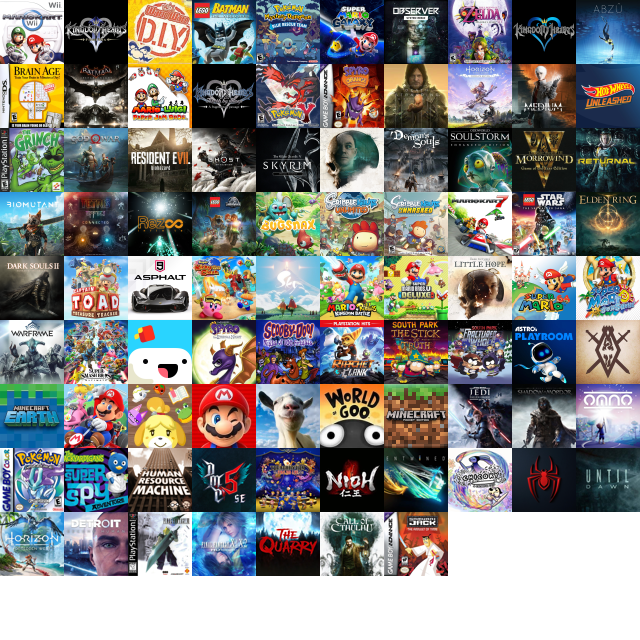
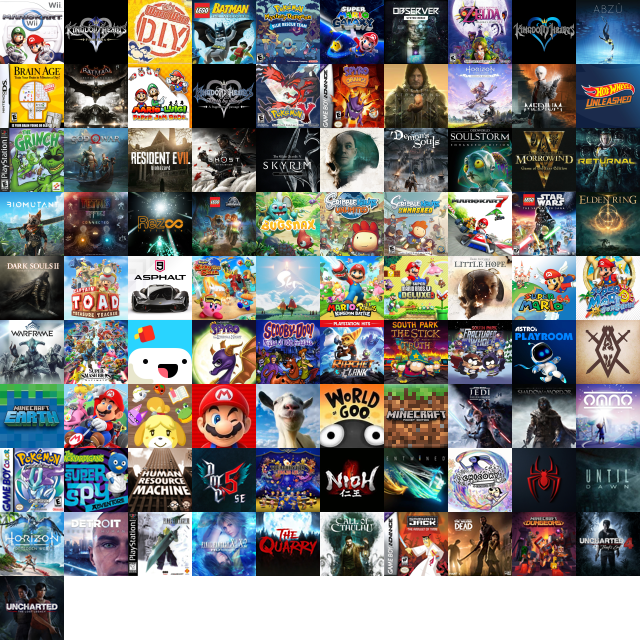
Update game records

Changed region(s): [[0.6875, 0.7812, 1.0, 0.9062], [0.0, 0.875, 0.125, 1.0]]

diff --git a/resources/css/game-records-icons.css b/resources/css/game-records-icons.css
@@ -1,1 +1,1 @@
-img#i000203{background:url(/resources/png/icons.png) -192px -128px}img#i000201{background:url(/resources/png/icons.png) -64px -128px}img#i000307{background:url(/resources/png/icons.png) -448px -192px}img#i010009{background:url(/resources/png/icons2.png) -576px 0px}img#i010602{background:url(/resources/png/icons2.png) -128px -384px}img#i010402{background:url(/resources/png/icons2.png) -128px -256px}img#i010508{background:url(/resources/png/icons2.png) -512px -320px}img#i000601{background:url(/resources/png/icons.png) -64px -384px}img#i010101{background:url(/resources/png/icons2.png) -64px -64px}img#i010300{background:url(/resources/png/icons2.png) 0px -192px}img#i000000{background:url(/resources/png/icons.png) 0px 0px}img#i010100{background:url(/resources/png/icons2.png) 0px -64px}img#i000400{background:url(/resources/png/icons.png) 0px -256px}img#i010304{background:url(/resources/png/icons2.png) -256px -192px}img#i010805{background:url(/resources/png/icons2.png) -320px -512px}img#i010401{background:url(/resources/png/icons2.png) -64px -256px}img#i000605{background:url(/resources/png/icons.png) -320px -384px}img#i000309{background:url(/resources/png/icons.png) -576px -192px}img#i010707{background:url(/resources/png/icons2.png) -448px -448px}img#i000607{background:url(/resources/png/icons.png) -448px -384px}img#i000800{background:url(/resources/png/icons.png) 0px -512px}img#i000509{background:url(/resources/png/icons.png) -576px -320px}img#i000006{background:url(/resources/png/icons.png) -384px 0px}img#i010400{background:url(/resources/png/icons2.png) 0px -256px}img#i010106{background:url(/resources/png/icons2.png) -384px -64px}img#i010206{background:url(/resources/png/icons2.png) -384px -128px}img#i010801{background:url(/resources/png/icons2.png) -64px -512px}img#i010703{background:url(/resources/png/icons2.png) -192px -448px}img#i000102{background:url(/resources/png/icons.png) -128px -64px}img#i000305{background:url(/resources/png/icons.png) -320px -192px}img#i000507{background:url(/resources/png/icons.png) -448px -320px}img#i010309{background:url(/resources/png/icons2.png) -576px -192px}img#i010706{background:url(/resources/png/icons2.png) -384px -448px}img#i000909{background:url(/resources/png/icons.png) -576px -576px}img#i000903{background:url(/resources/png/icons.png) -192px -576px}img#i000008{background:url(/resources/png/icons.png) -512px 0px}img#i010502{background:url(/resources/png/icons2.png) -128px -320px}img#i010802{background:url(/resources/png/icons2.png) -128px -512px}img#i000205{background:url(/resources/png/icons.png) -320px -128px}img#i000708{background:url(/resources/png/icons.png) -512px -448px}img#i010203{background:url(/resources/png/icons2.png) -192px -128px}img#i010604{background:url(/resources/png/icons2.png) -256px -384px}img#i010201{background:url(/resources/png/icons2.png) -64px -128px}img#i000402{background:url(/resources/png/icons.png) -128px -256px}img#i000100{background:url(/resources/png/icons.png) 0px -64px}img#i000709{background:url(/resources/png/icons.png) -576px -448px}img#i010800{background:url(/resources/png/icons2.png) 0px -512px}img#i010107{background:url(/resources/png/icons2.png) -448px -64px}img#i010109{background:url(/resources/png/icons2.png) -576px -64px}img#i000405{background:url(/resources/png/icons.png) -320px -256px}img#i010702{background:url(/resources/png/icons2.png) -128px -448px}img#i000702{background:url(/resources/png/icons.png) -128px -448px}img#i010008{background:url(/resources/png/icons2.png) -512px 0px}img#i010103{background:url(/resources/png/icons2.png) -192px -64px}img#i000300{background:url(/resources/png/icons.png) 0px -192px}img#i000306{background:url(/resources/png/icons.png) -384px -192px}img#i000902{background:url(/resources/png/icons.png) -128px -576px}img#i000108{background:url(/resources/png/icons.png) -512px -64px}img#i000807{background:url(/resources/png/icons.png) -448px -512px}img#i000007{background:url(/resources/png/icons.png) -448px 0px}img#i010001{background:url(/resources/png/icons2.png) -64px 0px}img#i000506{background:url(/resources/png/icons.png) -384px -320px}img#i000609{background:url(/resources/png/icons.png) -576px -384px}img#i000404{background:url(/resources/png/icons.png) -256px -256px}img#i000107{background:url(/resources/png/icons.png) -448px -64px}img#i010003{background:url(/resources/png/icons2.png) -192px 0px}img#i000900{background:url(/resources/png/icons.png) 0px -576px}img#i000901{background:url(/resources/png/icons.png) -64px -576px}img#i000207{background:url(/resources/png/icons.png) -448px -128px}img#i010303{background:url(/resources/png/icons2.png) -192px -192px}img#i000004{background:url(/resources/png/icons.png) -256px 0px}img#i000500{background:url(/resources/png/icons.png) 0px -320px}img#i000706{background:url(/resources/png/icons.png) -384px -448px}img#i010308{background:url(/resources/png/icons2.png) -512px -192px}img#i000804{background:url(/resources/png/icons.png) -256px -512px}img#i000905{background:url(/resources/png/icons.png) -320px -576px}img#i000805{background:url(/resources/png/icons.png) -320px -512px}img#i000508{background:url(/resources/png/icons.png) -512px -320px}img#i010102{background:url(/resources/png/icons2.png) -128px -64px}img#i010405{background:url(/resources/png/icons2.png) -320px -256px}img#i010307{background:url(/resources/png/icons2.png) -448px -192px}img#i000704{background:url(/resources/png/icons.png) -256px -448px}img#i000200{background:url(/resources/png/icons.png) 0px -128px}img#i010601{background:url(/resources/png/icons2.png) -64px -384px}img#i010000{background:url(/resources/png/icons2.png) 0px 0px}img#i000105{background:url(/resources/png/icons.png) -320px -64px}img#i000908{background:url(/resources/png/icons.png) -512px -576px}img#i000403{background:url(/resources/png/icons.png) -192px -256px}img#i010708{background:url(/resources/png/icons2.png) -512px -448px}img#i010608{background:url(/resources/png/icons2.png) -512px -384px}img#i000209{background:url(/resources/png/icons.png) -576px -128px}img#i010600{background:url(/resources/png/icons2.png) 0px -384px}img#i010606{background:url(/resources/png/icons2.png) -384px -384px}img#i000003{background:url(/resources/png/icons.png) -192px 0px}img#i000005{background:url(/resources/png/icons.png) -320px 0px}img#i000409{background:url(/resources/png/icons.png) -576px -256px}img#i010406{background:url(/resources/png/icons2.png) -384px -256px}img#i000701{background:url(/resources/png/icons.png) -64px -448px}img#i000604{background:url(/resources/png/icons.png) -256px -384px}img#i010705{background:url(/resources/png/icons2.png) -320px -448px}img#i010006{background:url(/resources/png/icons2.png) -384px 0px}img#i010207{background:url(/resources/png/icons2.png) -448px -128px}img#i010609{background:url(/resources/png/icons2.png) -576px -384px}img#i000703{background:url(/resources/png/icons.png) -192px -448px}img#i000504{background:url(/resources/png/icons.png) -256px -320px}img#i000501{background:url(/resources/png/icons.png) -64px -320px}img#i000002{background:url(/resources/png/icons.png) -128px 0px}img#i000606{background:url(/resources/png/icons.png) -384px -384px}img#i010700{background:url(/resources/png/icons2.png) 0px -448px}img#i010004{background:url(/resources/png/icons2.png) -256px 0px}img#i010104{background:url(/resources/png/icons2.png) -256px -64px}img#i000009{background:url(/resources/png/icons.png) -576px 0px}img#i000801{background:url(/resources/png/icons.png) -64px -512px}img#i010505{background:url(/resources/png/icons2.png) -320px -320px}img#i000808{background:url(/resources/png/icons.png) -512px -512px}img#i010202{background:url(/resources/png/icons2.png) -128px -128px}img#i000503{background:url(/resources/png/icons.png) -192px -320px}img#i010209{background:url(/resources/png/icons2.png) -576px -128px}img#i010302{background:url(/resources/png/icons2.png) -128px -192px}img#i000406{background:url(/resources/png/icons.png) -384px -256px}img#i010806{background:url(/resources/png/icons2.png) -384px -512px}img#i010504{background:url(/resources/png/icons2.png) -256px -320px}img#i000705{background:url(/resources/png/icons.png) -320px -448px}img#i010305{background:url(/resources/png/icons2.png) -320px -192px}img#i010306{background:url(/resources/png/icons2.png) -384px -192px}img#i000904{background:url(/resources/png/icons.png) -256px -576px}img#i010404{background:url(/resources/png/icons2.png) -256px -256px}img#i000301{background:url(/resources/png/icons.png) -64px -192px}img#i010507{background:url(/resources/png/icons2.png) -448px -320px}img#i010506{background:url(/resources/png/icons2.png) -384px -320px}img#i000505{background:url(/resources/png/icons.png) -320px -320px}img#i010105{background:url(/resources/png/icons2.png) -320px -64px}img#i000806{background:url(/resources/png/icons.png) -384px -512px}img#i000202{background:url(/resources/png/icons.png) -128px -128px}img#i000407{background:url(/resources/png/icons.png) -448px -256px}img#i000907{background:url(/resources/png/icons.png) -448px -576px}img#i010607{background:url(/resources/png/icons2.png) -448px -384px}img#i000602{background:url(/resources/png/icons.png) -128px -384px}img#i010403{background:url(/resources/png/icons2.png) -192px -256px}img#i010408{background:url(/resources/png/icons2.png) -512px -256px}img#i000206{background:url(/resources/png/icons.png) -384px -128px}img#i010005{background:url(/resources/png/icons2.png) -320px 0px}img#i000802{background:url(/resources/png/icons.png) -128px -512px}img#i000001{background:url(/resources/png/icons.png) -64px 0px}img#i010603{background:url(/resources/png/icons2.png) -192px -384px}img#i010409{background:url(/resources/png/icons2.png) -576px -256px}img#i000603{background:url(/resources/png/icons.png) -192px -384px}img#i000809{background:url(/resources/png/icons.png) -576px -512px}img#i010501{background:url(/resources/png/icons2.png) -64px -320px}img#i010301{background:url(/resources/png/icons2.png) -64px -192px}img#i000204{background:url(/resources/png/icons.png) -256px -128px}img#i010701{background:url(/resources/png/icons2.png) -64px -448px}img#i010407{background:url(/resources/png/icons2.png) -448px -256px}img#i010205{background:url(/resources/png/icons2.png) -320px -128px}img#i010208{background:url(/resources/png/icons2.png) -512px -128px}img#i010204{background:url(/resources/png/icons2.png) -256px -128px}img#i010509{background:url(/resources/png/icons2.png) -576px -320px}img#i010200{background:url(/resources/png/icons2.png) 0px -128px}img#i000308{background:url(/resources/png/icons.png) -512px -192px}img#i000600{background:url(/resources/png/icons.png) 0px -384px}img#i000103{background:url(/resources/png/icons.png) -192px -64px}img#i000304{background:url(/resources/png/icons.png) -256px -192px}img#i010503{background:url(/resources/png/icons2.png) -192px -320px}img#i000502{background:url(/resources/png/icons.png) -128px -320px}img#i000803{background:url(/resources/png/icons.png) -192px -512px}img#i000608{background:url(/resources/png/icons.png) -512px -384px}img#i010007{background:url(/resources/png/icons2.png) -448px 0px}img#i000109{background:url(/resources/png/icons.png) -576px -64px}img#i000101{background:url(/resources/png/icons.png) -64px -64px}img#i000401{background:url(/resources/png/icons.png) -64px -256px}img#i000707{background:url(/resources/png/icons.png) -448px -448px}img#i000303{background:url(/resources/png/icons.png) -192px -192px}img#i010108{background:url(/resources/png/icons2.png) -512px -64px}img#i000208{background:url(/resources/png/icons.png) -512px -128px}img#i010804{background:url(/resources/png/icons2.png) -256px -512px}img#i000408{background:url(/resources/png/icons.png) -512px -256px}img#i010704{background:url(/resources/png/icons2.png) -256px -448px}img#i000700{background:url(/resources/png/icons.png) 0px -448px}img#i010709{background:url(/resources/png/icons2.png) -576px -448px}img#i010002{background:url(/resources/png/icons2.png) -128px 0px}img#i010500{background:url(/resources/png/icons2.png) 0px -320px}img#i000106{background:url(/resources/png/icons.png) -384px -64px}img#i000104{background:url(/resources/png/icons.png) -256px -64px}img#i000906{background:url(/resources/png/icons.png) -384px -576px}img#i010605{background:url(/resources/png/icons2.png) -320px -384px}
+img#i000203{background:url(/resources/png/icons.png) -192px -128px}img#i000201{background:url(/resources/png/icons.png) -64px -128px}img#i000307{background:url(/resources/png/icons.png) -448px -192px}img#i010009{background:url(/resources/png/icons2.png) -576px 0px}img#i010602{background:url(/resources/png/icons2.png) -128px -384px}img#i010402{background:url(/resources/png/icons2.png) -128px -256px}img#i010508{background:url(/resources/png/icons2.png) -512px -320px}img#i000601{background:url(/resources/png/icons.png) -64px -384px}img#i010101{background:url(/resources/png/icons2.png) -64px -64px}img#i010300{background:url(/resources/png/icons2.png) 0px -192px}img#i000000{background:url(/resources/png/icons.png) 0px 0px}img#i010100{background:url(/resources/png/icons2.png) 0px -64px}img#i000400{background:url(/resources/png/icons.png) 0px -256px}img#i010304{background:url(/resources/png/icons2.png) -256px -192px}img#i010805{background:url(/resources/png/icons2.png) -320px -512px}img#i010401{background:url(/resources/png/icons2.png) -64px -256px}img#i000605{background:url(/resources/png/icons.png) -320px -384px}img#i000309{background:url(/resources/png/icons.png) -576px -192px}img#i010707{background:url(/resources/png/icons2.png) -448px -448px}img#i000607{background:url(/resources/png/icons.png) -448px -384px}img#i000800{background:url(/resources/png/icons.png) 0px -512px}img#i000509{background:url(/resources/png/icons.png) -576px -320px}img#i000006{background:url(/resources/png/icons.png) -384px 0px}img#i010400{background:url(/resources/png/icons2.png) 0px -256px}img#i010106{background:url(/resources/png/icons2.png) -384px -64px}img#i010206{background:url(/resources/png/icons2.png) -384px -128px}img#i010801{background:url(/resources/png/icons2.png) -64px -512px}img#i010703{background:url(/resources/png/icons2.png) -192px -448px}img#i000102{background:url(/resources/png/icons.png) -128px -64px}img#i000305{background:url(/resources/png/icons.png) -320px -192px}img#i000507{background:url(/resources/png/icons.png) -448px -320px}img#i010309{background:url(/resources/png/icons2.png) -576px -192px}img#i010706{background:url(/resources/png/icons2.png) -384px -448px}img#i000909{background:url(/resources/png/icons.png) -576px -576px}img#i000903{background:url(/resources/png/icons.png) -192px -576px}img#i000008{background:url(/resources/png/icons.png) -512px 0px}img#i010502{background:url(/resources/png/icons2.png) -128px -320px}img#i010802{background:url(/resources/png/icons2.png) -128px -512px}img#i000205{background:url(/resources/png/icons.png) -320px -128px}img#i010803{background:url(/resources/png/icons2.png) -192px -512px}img#i000708{background:url(/resources/png/icons.png) -512px -448px}img#i010203{background:url(/resources/png/icons2.png) -192px -128px}img#i010604{background:url(/resources/png/icons2.png) -256px -384px}img#i010201{background:url(/resources/png/icons2.png) -64px -128px}img#i000402{background:url(/resources/png/icons.png) -128px -256px}img#i000100{background:url(/resources/png/icons.png) 0px -64px}img#i000709{background:url(/resources/png/icons.png) -576px -448px}img#i010800{background:url(/resources/png/icons2.png) 0px -512px}img#i010107{background:url(/resources/png/icons2.png) -448px -64px}img#i010109{background:url(/resources/png/icons2.png) -576px -64px}img#i000405{background:url(/resources/png/icons.png) -320px -256px}img#i010702{background:url(/resources/png/icons2.png) -128px -448px}img#i000702{background:url(/resources/png/icons.png) -128px -448px}img#i010008{background:url(/resources/png/icons2.png) -512px 0px}img#i010103{background:url(/resources/png/icons2.png) -192px -64px}img#i000300{background:url(/resources/png/icons.png) 0px -192px}img#i000306{background:url(/resources/png/icons.png) -384px -192px}img#i000902{background:url(/resources/png/icons.png) -128px -576px}img#i000108{background:url(/resources/png/icons.png) -512px -64px}img#i000807{background:url(/resources/png/icons.png) -448px -512px}img#i000007{background:url(/resources/png/icons.png) -448px 0px}img#i010001{background:url(/resources/png/icons2.png) -64px 0px}img#i000506{background:url(/resources/png/icons.png) -384px -320px}img#i000609{background:url(/resources/png/icons.png) -576px -384px}img#i000404{background:url(/resources/png/icons.png) -256px -256px}img#i000107{background:url(/resources/png/icons.png) -448px -64px}img#i010003{background:url(/resources/png/icons2.png) -192px 0px}img#i000900{background:url(/resources/png/icons.png) 0px -576px}img#i000901{background:url(/resources/png/icons.png) -64px -576px}img#i000207{background:url(/resources/png/icons.png) -448px -128px}img#i010303{background:url(/resources/png/icons2.png) -192px -192px}img#i000004{background:url(/resources/png/icons.png) -256px 0px}img#i000500{background:url(/resources/png/icons.png) 0px -320px}img#i000706{background:url(/resources/png/icons.png) -384px -448px}img#i010308{background:url(/resources/png/icons2.png) -512px -192px}img#i000804{background:url(/resources/png/icons.png) -256px -512px}img#i000905{background:url(/resources/png/icons.png) -320px -576px}img#i000805{background:url(/resources/png/icons.png) -320px -512px}img#i000508{background:url(/resources/png/icons.png) -512px -320px}img#i010102{background:url(/resources/png/icons2.png) -128px -64px}img#i010405{background:url(/resources/png/icons2.png) -320px -256px}img#i010307{background:url(/resources/png/icons2.png) -448px -192px}img#i000704{background:url(/resources/png/icons.png) -256px -448px}img#i000200{background:url(/resources/png/icons.png) 0px -128px}img#i010601{background:url(/resources/png/icons2.png) -64px -384px}img#i010000{background:url(/resources/png/icons2.png) 0px 0px}img#i000105{background:url(/resources/png/icons.png) -320px -64px}img#i000908{background:url(/resources/png/icons.png) -512px -576px}img#i000403{background:url(/resources/png/icons.png) -192px -256px}img#i010708{background:url(/resources/png/icons2.png) -512px -448px}img#i010608{background:url(/resources/png/icons2.png) -512px -384px}img#i000209{background:url(/resources/png/icons.png) -576px -128px}img#i010808{background:url(/resources/png/icons2.png) -512px -512px}img#i010600{background:url(/resources/png/icons2.png) 0px -384px}img#i010606{background:url(/resources/png/icons2.png) -384px -384px}img#i000003{background:url(/resources/png/icons.png) -192px 0px}img#i000005{background:url(/resources/png/icons.png) -320px 0px}img#i000409{background:url(/resources/png/icons.png) -576px -256px}img#i010406{background:url(/resources/png/icons2.png) -384px -256px}img#i000701{background:url(/resources/png/icons.png) -64px -448px}img#i000604{background:url(/resources/png/icons.png) -256px -384px}img#i010705{background:url(/resources/png/icons2.png) -320px -448px}img#i010006{background:url(/resources/png/icons2.png) -384px 0px}img#i010207{background:url(/resources/png/icons2.png) -448px -128px}img#i010609{background:url(/resources/png/icons2.png) -576px -384px}img#i000703{background:url(/resources/png/icons.png) -192px -448px}img#i000504{background:url(/resources/png/icons.png) -256px -320px}img#i000501{background:url(/resources/png/icons.png) -64px -320px}img#i000002{background:url(/resources/png/icons.png) -128px 0px}img#i000606{background:url(/resources/png/icons.png) -384px -384px}img#i010700{background:url(/resources/png/icons2.png) 0px -448px}img#i010004{background:url(/resources/png/icons2.png) -256px 0px}img#i010104{background:url(/resources/png/icons2.png) -256px -64px}img#i000009{background:url(/resources/png/icons.png) -576px 0px}img#i000801{background:url(/resources/png/icons.png) -64px -512px}img#i010505{background:url(/resources/png/icons2.png) -320px -320px}img#i000808{background:url(/resources/png/icons.png) -512px -512px}img#i010202{background:url(/resources/png/icons2.png) -128px -128px}img#i000503{background:url(/resources/png/icons.png) -192px -320px}img#i010209{background:url(/resources/png/icons2.png) -576px -128px}img#i010302{background:url(/resources/png/icons2.png) -128px -192px}img#i000406{background:url(/resources/png/icons.png) -384px -256px}img#i010806{background:url(/resources/png/icons2.png) -384px -512px}img#i010504{background:url(/resources/png/icons2.png) -256px -320px}img#i000705{background:url(/resources/png/icons.png) -320px -448px}img#i010305{background:url(/resources/png/icons2.png) -320px -192px}img#i010306{background:url(/resources/png/icons2.png) -384px -192px}img#i000904{background:url(/resources/png/icons.png) -256px -576px}img#i010404{background:url(/resources/png/icons2.png) -256px -256px}img#i000301{background:url(/resources/png/icons.png) -64px -192px}img#i010507{background:url(/resources/png/icons2.png) -448px -320px}img#i010506{background:url(/resources/png/icons2.png) -384px -320px}img#i000505{background:url(/resources/png/icons.png) -320px -320px}img#i010105{background:url(/resources/png/icons2.png) -320px -64px}img#i000806{background:url(/resources/png/icons.png) -384px -512px}img#i000202{background:url(/resources/png/icons.png) -128px -128px}img#i000407{background:url(/resources/png/icons.png) -448px -256px}img#i000907{background:url(/resources/png/icons.png) -448px -576px}img#i010607{background:url(/resources/png/icons2.png) -448px -384px}img#i000602{background:url(/resources/png/icons.png) -128px -384px}img#i010403{background:url(/resources/png/icons2.png) -192px -256px}img#i010408{background:url(/resources/png/icons2.png) -512px -256px}img#i000206{background:url(/resources/png/icons.png) -384px -128px}img#i010005{background:url(/resources/png/icons2.png) -320px 0px}img#i000802{background:url(/resources/png/icons.png) -128px -512px}img#i000001{background:url(/resources/png/icons.png) -64px 0px}img#i010603{background:url(/resources/png/icons2.png) -192px -384px}img#i010409{background:url(/resources/png/icons2.png) -576px -256px}img#i000603{background:url(/resources/png/icons.png) -192px -384px}img#i000809{background:url(/resources/png/icons.png) -576px -512px}img#i010501{background:url(/resources/png/icons2.png) -64px -320px}img#i010301{background:url(/resources/png/icons2.png) -64px -192px}img#i000204{background:url(/resources/png/icons.png) -256px -128px}img#i010701{background:url(/resources/png/icons2.png) -64px -448px}img#i010407{background:url(/resources/png/icons2.png) -448px -256px}img#i010205{background:url(/resources/png/icons2.png) -320px -128px}img#i010208{background:url(/resources/png/icons2.png) -512px -128px}img#i010204{background:url(/resources/png/icons2.png) -256px -128px}img#i010509{background:url(/resources/png/icons2.png) -576px -320px}img#i010200{background:url(/resources/png/icons2.png) 0px -128px}img#i000308{background:url(/resources/png/icons.png) -512px -192px}img#i000600{background:url(/resources/png/icons.png) 0px -384px}img#i000103{background:url(/resources/png/icons.png) -192px -64px}img#i000304{background:url(/resources/png/icons.png) -256px -192px}img#i010503{background:url(/resources/png/icons2.png) -192px -320px}img#i000502{background:url(/resources/png/icons.png) -128px -320px}img#i000803{background:url(/resources/png/icons.png) -192px -512px}img#i000608{background:url(/resources/png/icons.png) -512px -384px}img#i010007{background:url(/resources/png/icons2.png) -448px 0px}img#i000109{background:url(/resources/png/icons.png) -576px -64px}img#i000101{background:url(/resources/png/icons.png) -64px -64px}img#i000401{background:url(/resources/png/icons.png) -64px -256px}img#i000707{background:url(/resources/png/icons.png) -448px -448px}img#i000303{background:url(/resources/png/icons.png) -192px -192px}img#i010108{background:url(/resources/png/icons2.png) -512px -64px}img#i000208{background:url(/resources/png/icons.png) -512px -128px}img#i010804{background:url(/resources/png/icons2.png) -256px -512px}img#i000408{background:url(/resources/png/icons.png) -512px -256px}img#i010807{background:url(/resources/png/icons2.png) -448px -512px}img#i010704{background:url(/resources/png/icons2.png) -256px -448px}img#i000700{background:url(/resources/png/icons.png) 0px -448px}img#i010809{background:url(/resources/png/icons2.png) -576px -512px}img#i010900{background:url(/resources/png/icons2.png) 0px -576px}img#i010709{background:url(/resources/png/icons2.png) -576px -448px}img#i010002{background:url(/resources/png/icons2.png) -128px 0px}img#i010500{background:url(/resources/png/icons2.png) 0px -320px}img#i000106{background:url(/resources/png/icons.png) -384px -64px}img#i000104{background:url(/resources/png/icons.png) -256px -64px}img#i000906{background:url(/resources/png/icons.png) -384px -576px}img#i010605{background:url(/resources/png/icons2.png) -320px -384px}

diff --git a/_pages/game-records.html b/_pages/game-records.html
@@ -3,7 +3,7 @@ permalink: /game-records/
 layout: wnesenior
 title: Game Records
 base_url: /
-last_updated: March 24, 2023 at 6:26 PM
+last_updated: April 11, 2023 at 11:31 PM
 ---
 
 <!-- Generated by https://github.com/egartley/game-records !-->
@@ -16,28 +16,28 @@ last_updated: March 24, 2023 at 6:26 PM
 <div class="stat-container">
 <div class="stat">
 <span class="bold">Platforms</span><br>
-PS4/PS5 (81)<br>
+PS4/PS5 (85)<br>
 PS1/PS2 (27)<br>
 3DS/DS/DSi (26)<br>
 Switch (16)<br>
 Wii (11)<br>
 PC (4)<br>
-Other (20)</div>
+Other (21)</div>
 <div class="stat">
 <span class="bold">Ratings</span><br>
 5 stars (18)<br>
-4.5 stars (22)<br>
-4 stars (38)<br>
+4.5 stars (23)<br>
+4 stars (40)<br>
 3.5 stars (44)<br>
-3 stars (36)<br>
-2.5 stars (21)<br>
+3 stars (37)<br>
+2.5 stars (22)<br>
 2 stars or below (6)</div>
 <div class="stat">
 <span class="bold">Completion</span><br>
 100% Complete (67)<br>
 Platinum Trophy (33)</div>
 </div>
-<p>Total games: 185</p>
+<p>Total games: 190</p>
 <h2>Quick Navigation</h2>
 <p>
 <a class="qn-link" href="#qn-num">#</a>
@@ -361,7 +361,7 @@ Platinum Trophy (33)</div>
 </div>
 </div>
 <span class="gamecard-title">Demon's Souls</span>
-<span class="gamecard-playtext" style="font-size:12px">10 hours (abandoned)</span></div><div class="gamecard flex card">
+<span class="gamecard-playtext" style="font-size:12px">10 hours (incomplete)</span></div><div class="gamecard flex card">
 <div class="gamecard-outer flex">
 <img id="i010801" alt="icon" src="/resources/png/blank.png">
 <span id="gameid" gameid="169" style="display:none"></span>
@@ -507,6 +507,17 @@ Platinum Trophy (33)</div>
 </div>
 <span class="gamecard-title">Final Fantasy VII Remake <img id="dlc" alt="dlc" src="/resources/png/dlc.png"></span>
 <span class="gamecard-playtext" style="font-size:12px">64 hours, played 2 times</span></div><div class="gamecard flex card">
+<div class="gamecard-outer flex">
+<img id="i010803" alt="icon" src="/resources/png/blank.png">
+<span id="gameid" gameid="120" style="display:none"></span>
+<div class="gamecard-inner flex">
+<span class="gamecard-subtext">2015</span>
+<span class="gamecard-subtext">PlayStation 4</span>
+<span class="gamecard-rating flex"><img src="/resources/png/sf.png"><img src="/resources/png/sf.png"><img src="/resources/png/sf.png"><img src="/resources/png/se.png"><img src="/resources/png/se.png"></span>
+</div>
+</div>
+<span class="gamecard-title">Final Fantasy X HD Remaster</span>
+<span class="gamecard-playtext" style="font-size:12px">17 hours (abandoned)</span></div><div class="gamecard flex card">
 <div class="gamecard-outer flex">
 <img id="i000708" alt="icon" src="/resources/png/blank.png">
 <span id="gameid" gameid="621" style="display:none"></span>
@@ -1070,7 +1081,7 @@ Platinum Trophy (33)</div>
 <div class="gamecard-inner flex">
 <span class="gamecard-subtext">2014</span>
 <span class="gamecard-subtext">PlayStation 4</span>
-<span class="gamecard-rating flex"><img src="/resources/png/sf.png"><img src="/resources/png/sf.png"><img src="/resources/png/sf.png"><img src="/resources/png/se.png"><img src="/resources/png/se.png"></span>
+<span class="gamecard-rating flex"><img src="/resources/png/sf.png"><img src="/resources/png/sf.png"><img src="/resources/png/sh.png"><img src="/resources/png/se.png"><img src="/resources/png/se.png"></span>
 </div>
 </div>
 <span class="gamecard-title">Middle-earth: Shadow of Mordor <img id="100" alt="100" src="/resources/png/100.png"></span>
@@ -1086,6 +1097,17 @@ Platinum Trophy (33)</div>
 </div>
 <span class="gamecard-title">Minecraft</span>
 <span class="gamecard-playtext" style="font-size:12px">305 hours</span></div><div class="gamecard flex card">
+<div class="gamecard-outer flex">
+<img id="i010808" alt="icon" src="/resources/png/blank.png">
+<span id="gameid" gameid="135" style="display:none"></span>
+<div class="gamecard-inner flex">
+<span class="gamecard-subtext">2020</span>
+<span class="gamecard-subtext">PlayStation 4</span>
+<span class="gamecard-rating flex"><img src="/resources/png/sf.png"><img src="/resources/png/sf.png"><img src="/resources/png/sf.png"><img src="/resources/png/sf.png"><img src="/resources/png/se.png"></span>
+</div>
+</div>
+<span class="gamecard-title">Minecraft Dungeons</span>
+<span class="gamecard-playtext" style="font-size:12px">12 hours</span></div><div class="gamecard flex card">
 <div class="gamecard-outer flex">
 <img id="i010600" alt="icon" src="/resources/png/blank.png">
 <span id="gameid" gameid="295" style="display:none"></span>
@@ -1593,7 +1615,7 @@ Platinum Trophy (33)</div>
 <div class="gamecard-inner flex">
 <span class="gamecard-subtext">2019</span>
 <span class="gamecard-subtext">PlayStation 5</span>
-<span class="gamecard-rating flex"><img src="/resources/png/sf.png"><img src="/resources/png/sf.png"><img src="/resources/png/sf.png"><img src="/resources/png/sf.png"><img src="/resources/png/se.png"></span>
+<span class="gamecard-rating flex"><img src="/resources/png/sf.png"><img src="/resources/png/sf.png"><img src="/resources/png/sf.png"><img src="/resources/png/sf.png"><img src="/resources/png/sh.png"></span>
 </div>
 </div>
 <span class="gamecard-title">Star Wars Jedi: Fallen Order <img id="100" alt="100" src="/resources/png/100.png"><img id="plat" alt="plat" src="/resources/png/plat.png"></span>
@@ -2029,6 +2051,17 @@ Platinum Trophy (33)</div>
 <span class="gamecard-title">The Rescue of Princess Blobette</span>
 <span class="gamecard-playtext" style="font-size:12px">5 hours (incomplete)</span></div><div class="gamecard flex card">
 <div class="gamecard-outer flex">
+<img id="i010807" alt="icon" src="/resources/png/blank.png">
+<span id="gameid" gameid="126" style="display:none"></span>
+<div class="gamecard-inner flex">
+<span class="gamecard-subtext">2012</span>
+<span class="gamecard-subtext">Mobile (iOS)</span>
+<span class="gamecard-rating flex"><img src="/resources/png/sf.png"><img src="/resources/png/sf.png"><img src="/resources/png/sf.png"><img src="/resources/png/se.png"><img src="/resources/png/se.png"></span>
+</div>
+</div>
+<span class="gamecard-title">The Walking Dead</span>
+<span class="gamecard-playtext" style="font-size:12px">20 hours</span></div><div class="gamecard flex card">
+<div class="gamecard-outer flex">
 <img id="i010704" alt="icon" src="/resources/png/blank.png">
 <span id="gameid" gameid="161" style="display:none"></span>
 <div class="gamecard-inner flex">
@@ -2051,6 +2084,28 @@ Platinum Trophy (33)</div>
 <span class="gamecard-title">Toy Story 2: Buzz Lightyear to the Rescue <img id="100" alt="100" src="/resources/png/100.png"></span>
 <span class="gamecard-playtext" style="font-size:12px">44 hours, played 4 times</span></div><span id="qn-u"></span>
 <div class="gamecard flex card">
+<div class="gamecard-outer flex">
+<img id="i010809" alt="icon" src="/resources/png/blank.png">
+<span id="gameid" gameid="215" style="display:none"></span>
+<div class="gamecard-inner flex">
+<span class="gamecard-subtext">2016</span>
+<span class="gamecard-subtext">PlayStation 5</span>
+<span class="gamecard-rating flex"><img src="/resources/png/sf.png"><img src="/resources/png/sf.png"><img src="/resources/png/sf.png"><img src="/resources/png/sf.png"><img src="/resources/png/se.png"></span>
+</div>
+</div>
+<span class="gamecard-title">Uncharted 4: A Thief's End</span>
+<span class="gamecard-playtext" style="font-size:12px">13 hours</span></div><div class="gamecard flex card">
+<div class="gamecard-outer flex">
+<img id="i010900" alt="icon" src="/resources/png/blank.png">
+<span id="gameid" gameid="216" style="display:none"></span>
+<div class="gamecard-inner flex">
+<span class="gamecard-subtext">2017</span>
+<span class="gamecard-subtext">PlayStation 5</span>
+<span class="gamecard-rating flex"><img src="/resources/png/sf.png"><img src="/resources/png/sf.png"><img src="/resources/png/sf.png"><img src="/resources/png/sf.png"><img src="/resources/png/se.png"></span>
+</div>
+</div>
+<span class="gamecard-title">Uncharted: The Lost Legacy</span>
+<span class="gamecard-playtext" style="font-size:12px">3 hours (in-progress)</span></div><div class="gamecard flex card">
 <div class="gamecard-outer flex">
 <img id="i010709" alt="icon" src="/resources/png/blank.png">
 <span id="gameid" gameid="168" style="display:none"></span>
